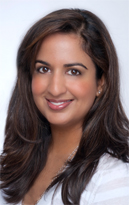
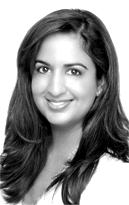
add photo

diff --git a/about_management.html b/about_management.html
@@ -28,7 +28,7 @@ Vince has a B.S. in Computer Science from Sichuan University, China, and MBA fro
         </div>
        <!-- -------------------------------->
         <div style="margin-left:10px; border-bottom:1px dashed #464646; zoom:1; overflow:auto; padding-bottom:10px; margin-top:15px;">
-        	<span class="pic" style="width:129px; height:129px; background:#f0f0f0"></span>
+        	<span class="pic" style="width:129px; height:205px; background:#f0f0f0"><img src="images/hui_photo.jpg"></span>
             <span class="ct_font" style="width:801px; color:#505050"><b style="color:#0132ad; font-size:24px;">Hui  Wang </b><br><b><em>Co-Founder and CTO</em></b><br />
 Hui has Over 18 years of experience in architecture, design, and development of server, desktop and mobile software systems.  He worked for a number of world famous software and internet companies as senior software engineer and architect, including Microsoft, Opentable, and Apple. His systems are being used by billions of users worldwide. <br><br>
 Hui has a M.S. degree in Computing and Information Sciences from Rochester Institute of Technology, and Bachelor of Engineering degree in Electrical Engineering and second degree in Computer Science from Zhejiang University.
@@ -45,7 +45,7 @@ Pavan holds a B.S in Computer Science Engineering from the University of Illinoi
         </div>
          <!-- -------------------------------->
         <div style="margin-left:10px; border-bottom:1px dashed #464646; zoom:1; overflow:auto; padding-bottom:10px; margin-top:15px;">
-        	<span class="pic" style="width:129px; height:129px; background:#f0f0f0"></span>
+        	<span class="pic" style="width:129px; height:205px; background:#f0f0f0"><img src="images/doug_photo.jpg"></span>
             <span class="ct_font" style="width:801px; color:#505050"><b style="color:#0132ad; font-size:24px;">Doug McGraw</b><br><b><em>VP Sales</em></b><br />
 Doug McGraw brings to SKTLabs more than 20 years of sales experience, with an emphasis in Enterprise Software, IT Outsourcing and Consulting Services. Having specialized in sales for both software and services in the High Technology Industry Vertical,  Doug is well versed in the areas of software product development and Product Engineering Managed Services.<br><br>
 As vice president of sales, Doug motivates the company's sales team and drives revenue through large scale, strategic partnerships.<br><br>
